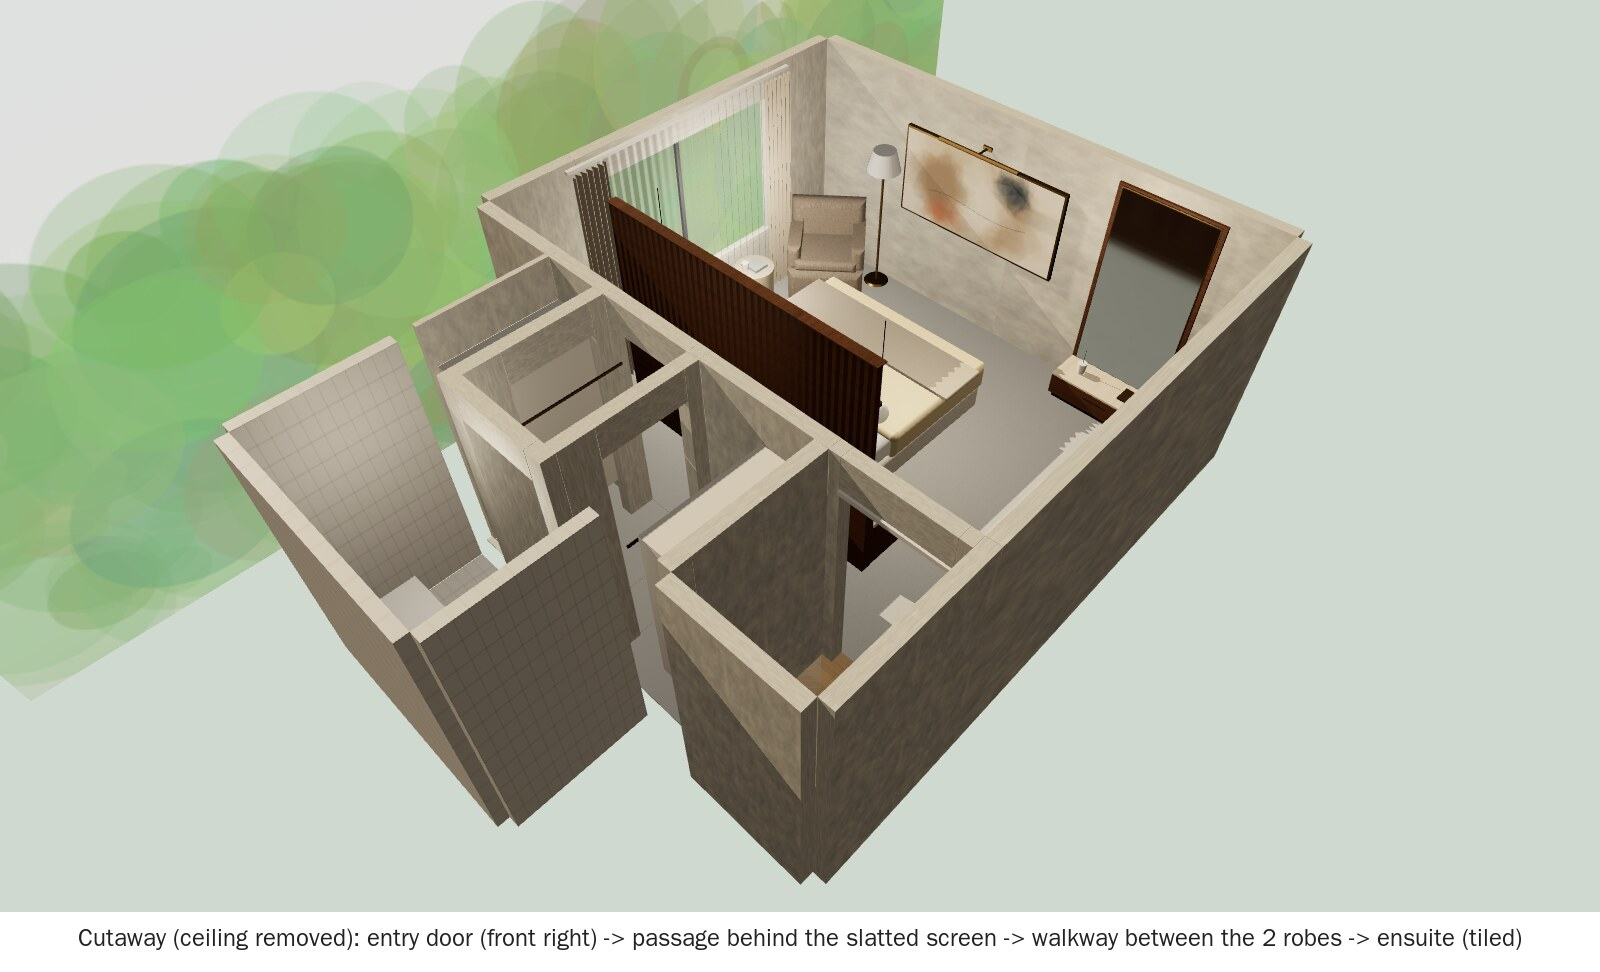
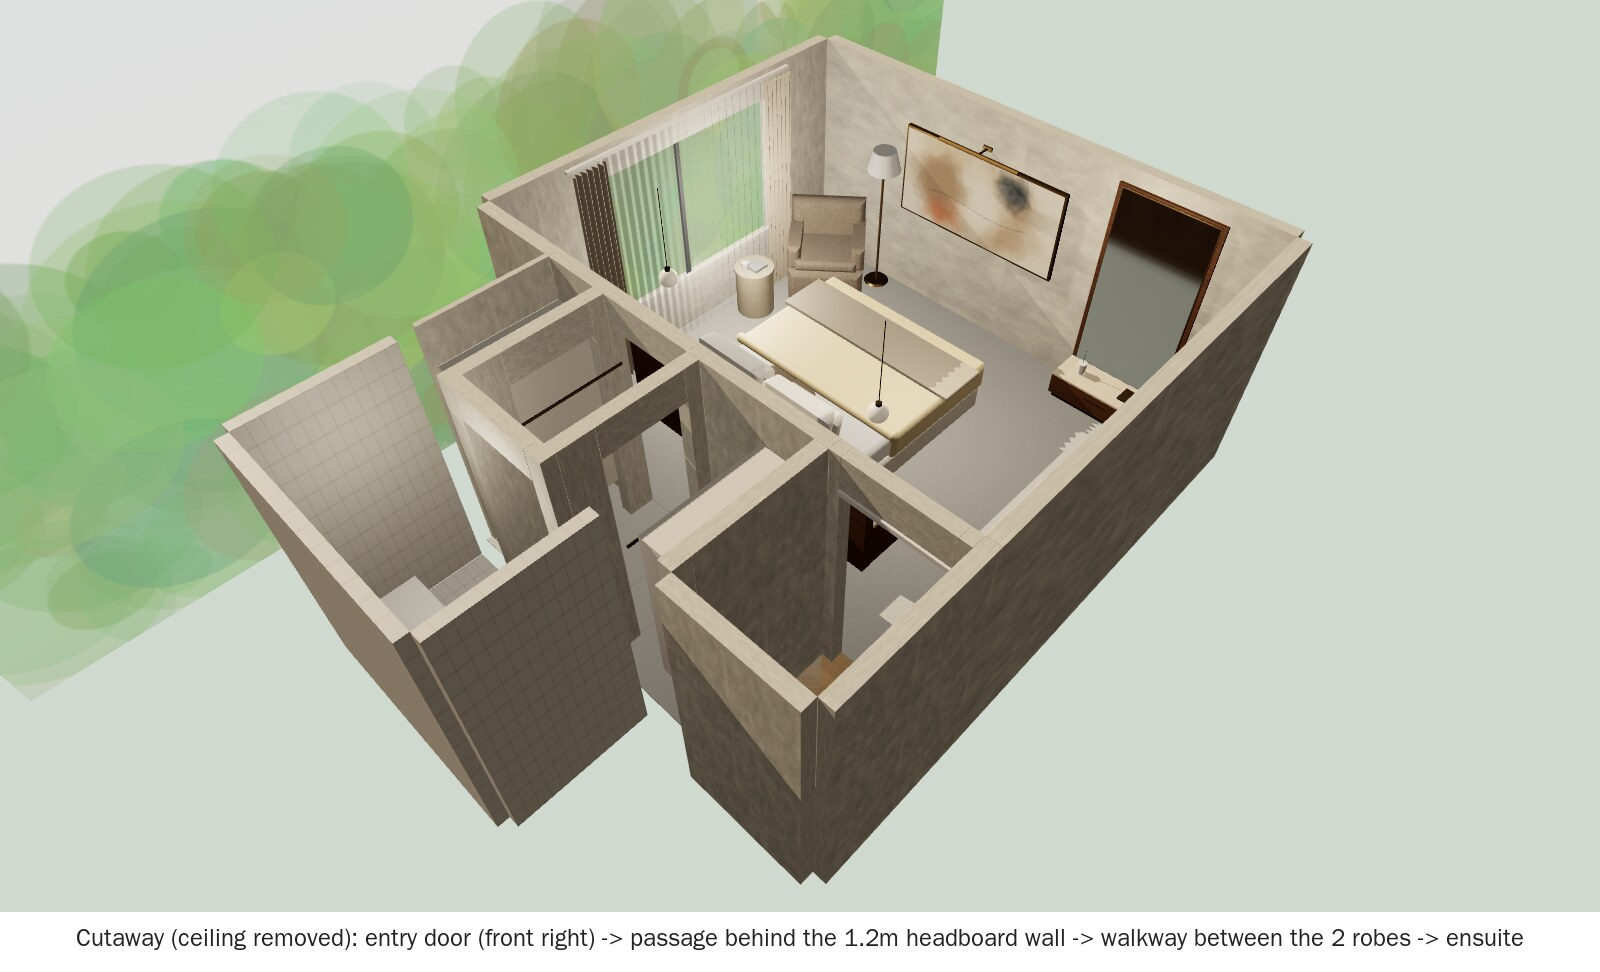
Remove timber slat screen option; back to 1.2m headboard wall
Claude-Session: https://claude.ai/code/session_01P4LkCESWoGV8P5QgBbWSmy

Changed region(s): [[0.0312, 0.9568, 0.9688, 0.9877], [0.375, 0.1852, 0.5625, 0.463]]

diff --git a/renders/bedroom-1-3d.html b/renders/bedroom-1-3d.html
@@ -209,17 +209,13 @@ box(1.33,1.5,0.54,0.57,4.48,4.66,mat('#bfc3c6',0.8)); cyl(1.52,0.58,4.62,0.04,0.
 cyl(0.15,0.75,3.95,0.012,0.012,1.5,brass,8); cyl(0.15,0.01,3.95,0.12,0.14,0.02,brass);
 cyl(0.15,1.5,3.95,0.12,0.18,0.22,mat('#f4f4f2',0.9,0,{side:THREE.DoubleSide}),32);
 
-// ---------- Backdrop behind the bed (choose with ?back=none|curtain|screen|grasscloth|ledge) ----------
+// ---------- Backdrop behind the bed (choose with ?back=none|curtain|grasscloth|ledge) ----------
 const BACK=P.get('back')||'none';
 if(BACK==='curtain'){ // ceiling-hung linen curtain along the east wall, z 1.15-4.85 (clear of entry door), parts at the robe walkway
   box(3.86,3.9,CH-0.03,CH,1.15,4.85,mat('#f4f2ee',0.5),false);
   const w=3.7, segs=36*8, g=new THREE.PlaneGeometry(w,CH-0.04,segs,1); const pp=g.attributes.position;
   for(let i=0;i<pp.count;i++){ const u=(pp.getX(i)+w/2)/w; pp.setZ(i,Math.sin(u*36*Math.PI*2)*0.035); }
   g.computeVertexNormals(); const c=new THREE.Mesh(g,mat('#d9cfc0',0.95,0,{side:THREE.DoubleSide})); c.position.set(3.88,(CH-0.04)/2,3.0); c.rotation.y=Math.PI/2; c.castShadow=true; c.receiveShadow=true; scene.add(c);
-}
-if(BACK==='screen'){ // slatted walnut screen on top of the headboard wall up to the cornice
-  for(let z=1.42;z<4.28;z+=0.075){ box(3.22,3.28,1.2,CH-0.065,z,z+0.035,walnut); }
-  box(3.2,3.3,CH-0.075,CH-0.065,1.4,4.3,walnut);
 }
 if(BACK==='grasscloth'){ // textured grasscloth wallpaper on the east wall + walnut frame around the robe walkway opening
   const gc=mat('#ffffff',1,0,{map:canvasTex(512,512,(g,w,h)=>{ g.fillStyle='#cdbfa8'; g.fillRect(0,0,w,h); const r=rnd(51);
